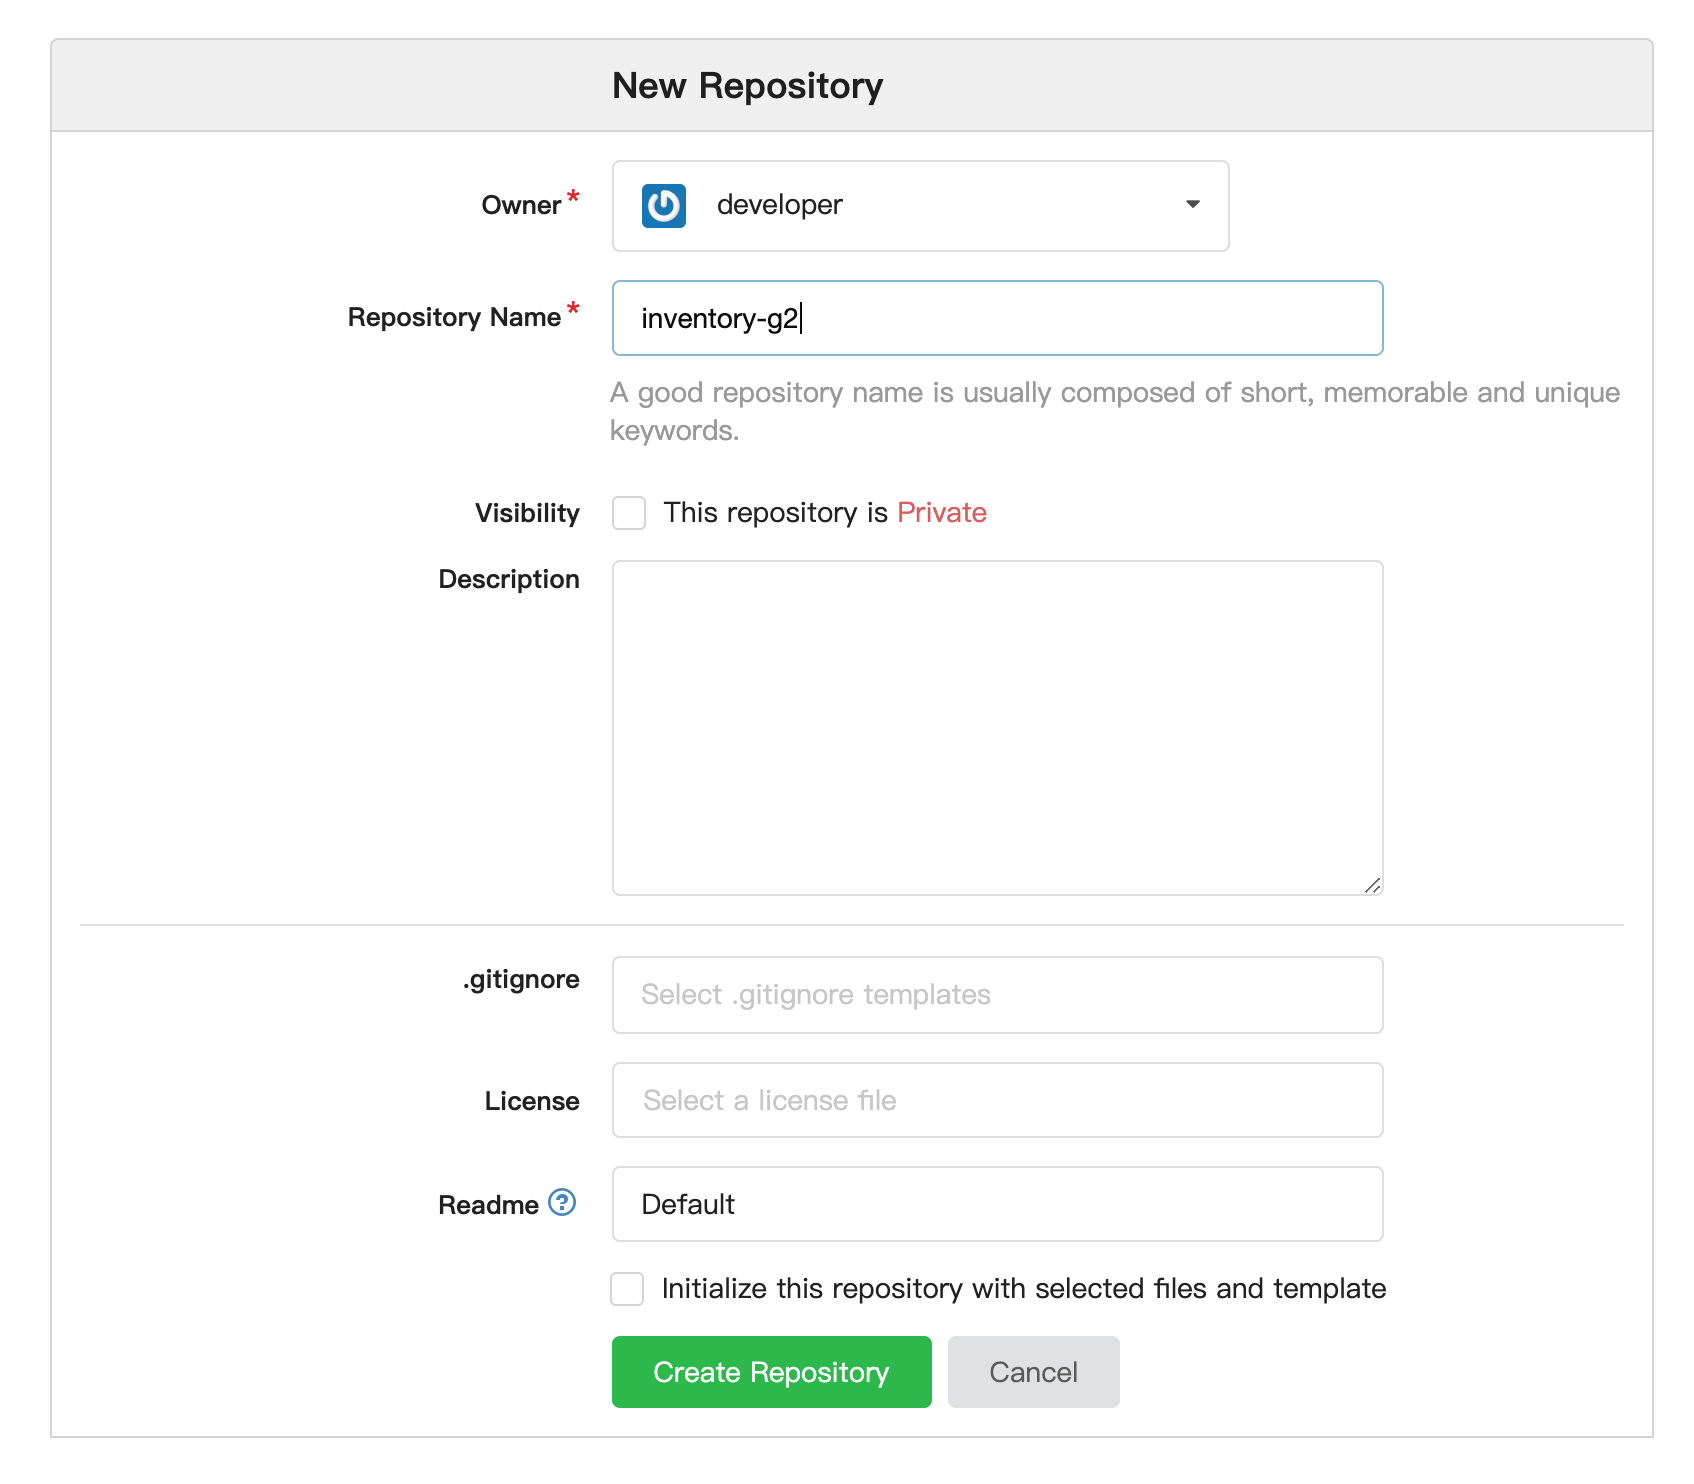
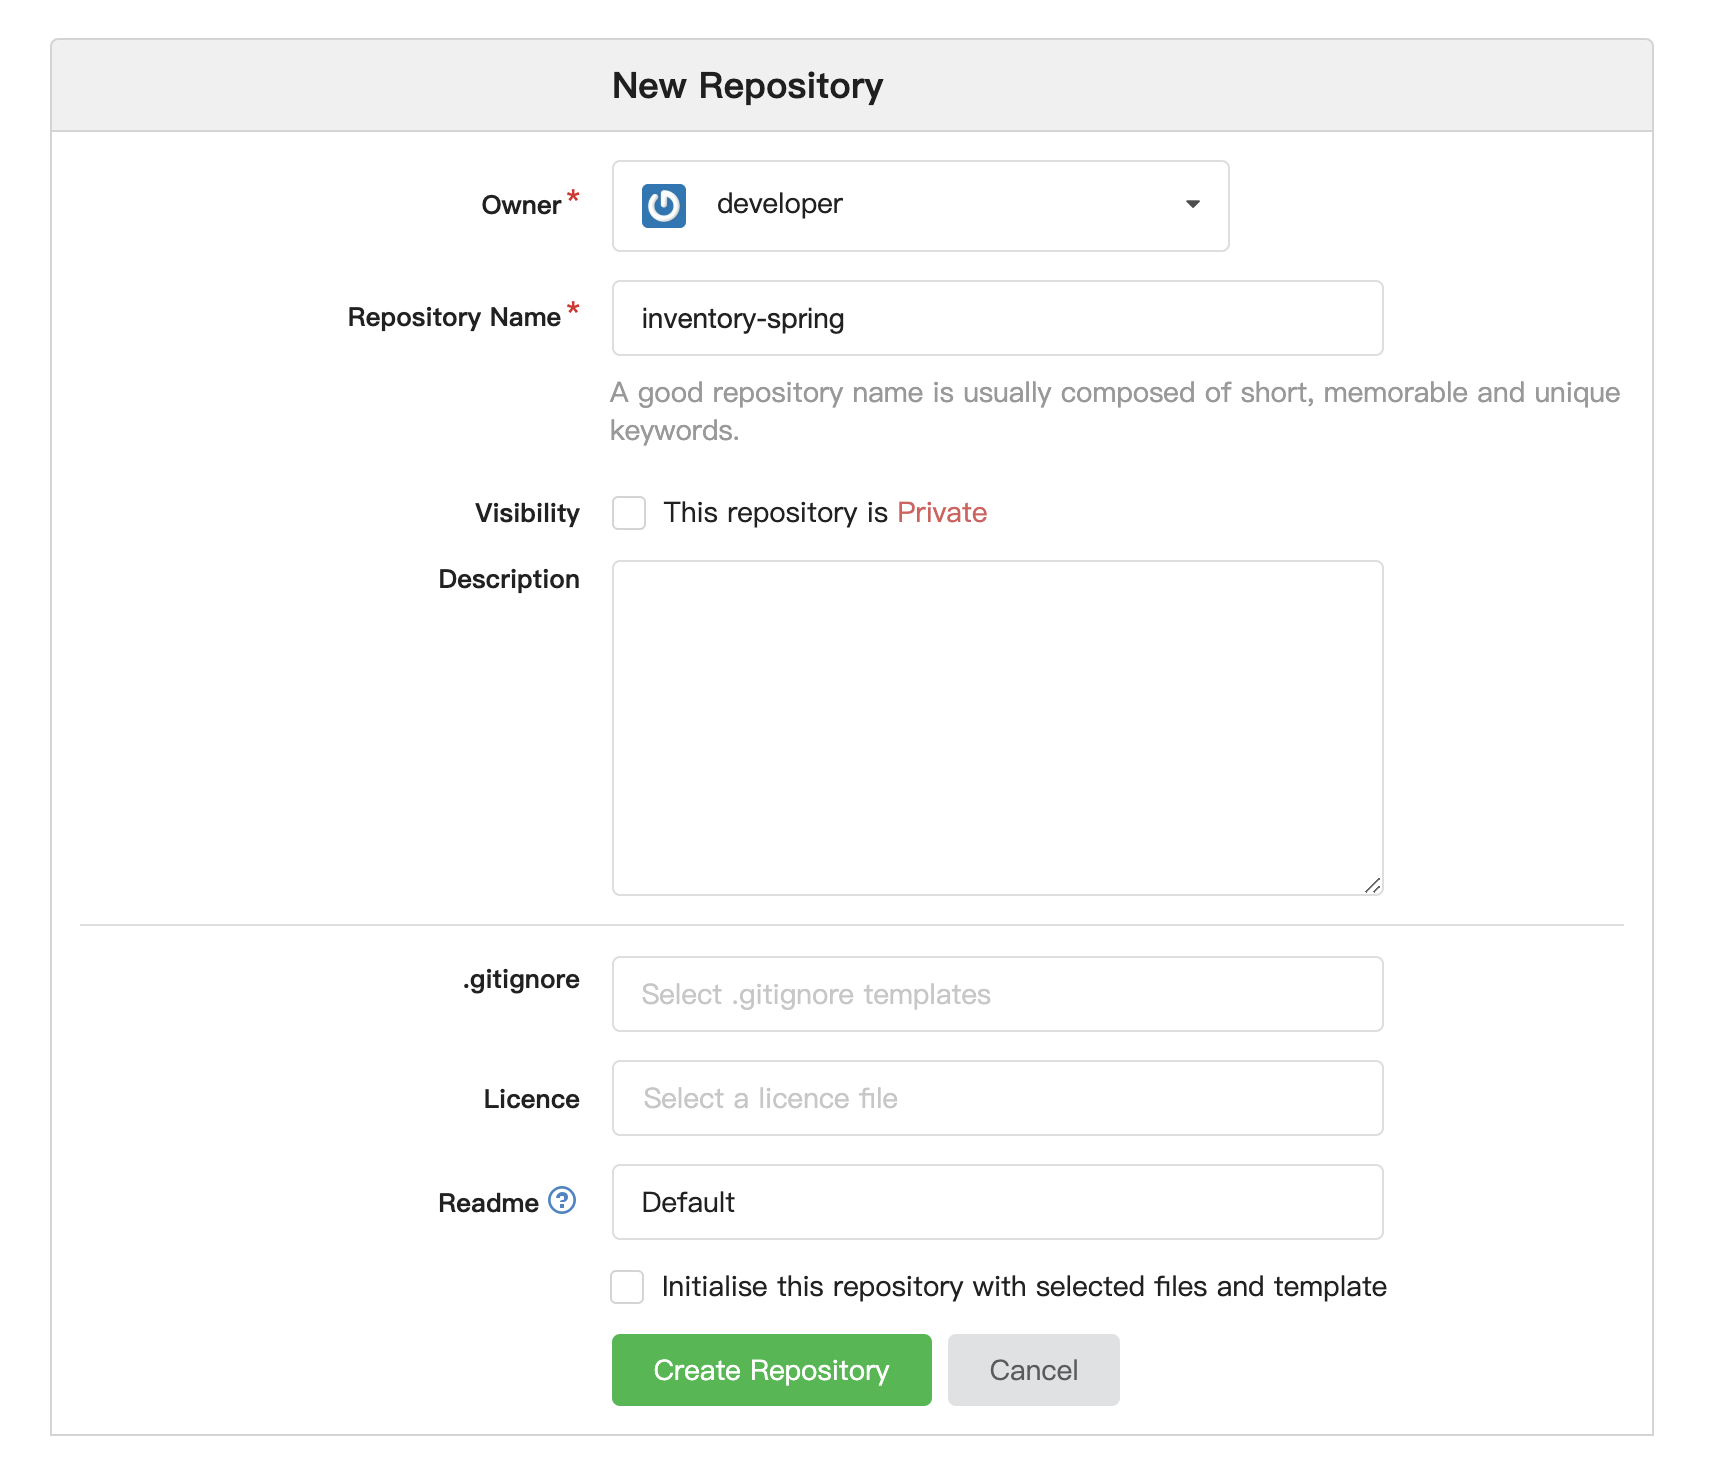
fixes for OCP 4, jdk 11 and 8

diff --git a/inventory-spring-boot-maven.md b/inventory-spring-boot-maven.md
@@ -49,6 +49,9 @@ $ cd inventory-spring-boot-maven
 $ cp ~/Downloads/Inventory\ API.yaml ./inventory.yaml
 ~~~
 
+
+> Upload the file to your workspace
+
 Next you'll create a `bin` folder, download the API Generator CLI...
 
 ~~~shell
@@ -65,7 +68,7 @@ $ cat << EOF > openapi-config.json
 }
 EOF
 $ mkdir ./bin
-$ curl -L -o ./bin/openapi-generator-cli.jar http://central.maven.org/maven2/org/openapitools/openapi-generator-cli/3.3.4/openapi-generator-cli-3.3.4.jar
+$ curl -L -o ./bin/openapi-generator-cli.jar https://repo1.maven.org/maven2/org/openapitools/openapi-generator-cli/4.2.3/openapi-generator-cli-4.2.3.jar
 $ export OUTPUT_DIR="inventory-gen"
 ~~~
 
@@ -142,7 +145,7 @@ Finally let's generate the code.
 ~~~shell
 $ java -jar ./bin/openapi-generator-cli.jar generate \
   -i inventory.yaml \
-  -l spring \
+  -g spring \
   -o $OUTPUT_DIR -c openapi-config.json
 ~~~
 
@@ -293,7 +296,7 @@ Click on the plus icon on the top navigation bar and then on **New Repository**.
 
 ![Create New Repository]({% image_path gogs-new-repo-01.png %}){:width="900px"}
 
-Give `inventory-spring-boot-gradle` as **Repository Name** and click on **Create Repository** 
+Give `inventory-spring` as **Repository Name** and click on **Create Repository** 
 button, leaving the rest with default values.
 
 ![Create New Repository]({% image_path gogs-new-repo-02.png %}){:width="700px"}
@@ -350,7 +353,7 @@ Go to the folder where we have generated the code (it should be `inventory-sprin
 >       - value: http://nexus.lab-infra:8081/repository/maven-all-public
 >         name: MAVEN_MIRROR_UR
 >       - value: >-
->           -XX:MaxRAMPercentage=50.0 -XX:+UseParallelGC -XX:MinHeapFreeRatio=10
+>           -XX:+UseParallelGC -XX:MinHeapFreeRatio=10
 >           -XX:MaxHeapFreeRatio=20 -XX:GCTimeRatio=4
 >           -XX:AdaptiveSizePolicyWeight=90 -Dsun.zip.disableMemoryMapping=true
 >           -Xms20m -Djava.security.egd=file:/dev/./urandom -Duser.home=/home/user
@@ -362,7 +365,7 @@ Go to the folder where we have generated the code (it should be `inventory-sprin
 
 ~~~shell
 $ git init
-$ git remote add origin GIT-REPO-URL
+$ git remote add origin ${GIT_REPO_URL}
 ~~~
 
 Before you commit the source code to the Git repository, configure your name and email so that the commit owner can be seen on the repository. If you want, you can replace the name and the email with your own in the following commands:
@@ -412,7 +415,7 @@ Ok, so we're sure we have a project to deploy our API, well, let's deploy our co
 > If Java 8
 
 ~~~shell
-$ oc new-app java:8~GIT-REPO-URL --context-dir=. --name inventory-jdk-8-s2i -l app.kubernetes.io/component=inventory-jdk-8-s2i -l app.kubernetes.io/instance=inventory-jdk-8-s2i -l app.kubernetes.io/name=java -l app.kubernetes.io/part-of=inventory-jdk-8-s2i -l app.openshift.io/runtime=java -l app.openshift.io/runtime-version='8' -n {{COOLSTORE_PROJECT}}{{PROJECT_SUFFIX}} 
+$ oc new-app java:8~${GIT_REPO_URL} --context-dir=. --name inventory-jdk-8-s2i -l app.kubernetes.io/component=inventory-jdk-8-s2i -l app.kubernetes.io/instance=inventory-jdk-8-s2i -l app.kubernetes.io/name=java -l app.kubernetes.io/part-of=inventory-jdk-8-s2i -l app.openshift.io/runtime=java -l app.openshift.io/runtime-version='8' -n {{COOLSTORE_PROJECT}}{{PROJECT_SUFFIX}} 
 --> Found image 8bea1b6 (2 weeks old) in image stream "openshift/java" under tag "8" for "java:8"
 
     Java Applications 
@@ -443,7 +446,7 @@ $ oc new-app java:8~GIT-REPO-URL --context-dir=. --name inventory-jdk-8-s2i -l a
 > If Java 11
 
 ~~~shell
-$ oc new-app java:11~GIT-REPO-URL --context-dir=. --name inventory-jdk-11-s2i -l app.kubernetes.io/component=inventory-jdk-11-s2i -l app.kubernetes.io/instance=inventory-jdk-11-s2i -l app.kubernetes.io/name=java -l app.kubernetes.io/part-of=inventory-jdk-11-s2i -l app.openshift.io/runtime=java -l app.openshift.io/runtime-version='11' -n {{COOLSTORE_PROJECT}}{{PROJECT_SUFFIX}} 
+$ oc new-app java:11~${GIT_REPO_URL} --context-dir=. --name inventory-jdk-11-s2i -l app.kubernetes.io/component=inventory-jdk-11-s2i -l app.kubernetes.io/instance=inventory-jdk-11-s2i -l app.kubernetes.io/name=java -l app.kubernetes.io/part-of=inventory-jdk-11-s2i -l app.openshift.io/runtime=java -l app.openshift.io/runtime-version='11' -n {{COOLSTORE_PROJECT}}{{PROJECT_SUFFIX}} 
 --> Found image adc2c89 (3 weeks old) in image stream "openshift/java" under tag "11" for "java:11"
 
     Java Applications 
@@ -489,9 +492,18 @@ After a successful built you should see a blue circle stating that 1 pod is up a
 
 In order to expose our service to the internet we need a route, next command will do the job.
 
+> If Java 8
+
 ~~~shell
-$ oc expose svc/inventory-s2i -n {{COOLSTORE_PROJECT}}{{PROJECT_SUFFIX}}
-route.route.openshift.io/inventory-s2i exposed
+$ oc expose svc/inventory-jdk-8-s2i -n {{COOLSTORE_PROJECT}}{{PROJECT_SUFFIX}}
+route.route.openshift.io/inventory-jdk-8-s2i exposed
+~~~
+
+> If Java 11
+
+~~~shell
+$ oc expose svc/inventory-jdk-11-s2i -n {{COOLSTORE_PROJECT}}{{PROJECT_SUFFIX}}
+route.route.openshift.io/inventory-jdk-11-s2i exposed
 ~~~
 
 Now if you go back to the Openshift web console you should see the route generated.

diff --git a/inventory-spring-boot-maven-metrics.md b/inventory-spring-boot-maven-metrics.md
@@ -72,19 +72,8 @@ $ mvn spring-boot:run
 
 Now open another terminal window and check if the default actuator endpoint is working properly.
 
-> **TIP:** Adding `| jq '.'` to make it easier to spot the 'prometheus' URL...
-> 
-> ~~~json
-...
-"prometheus": {
-      "href": "http://localhost:8080/actuator/prometheus",
-      "templated": false
-},
-...
-~~~
-
 ~~~shell
-$ curl http://localhost:8080/actuator | jq '.'
+$ curl http://localhost:8080/actuator
 {
   "_links": {
     ...
@@ -223,29 +212,37 @@ $ git push origin master
 >
 > **Please make sure project `{{COOLSTORE_PROJECT}}{{PROJECT_SUFFIX}}` is in use** by running: `oc project {{COOLSTORE_PROJECT}}{{PROJECT_SUFFIX}}`
 
+> If Java 8, else, change 8 by 11
+
 ~~~shell
-$  oc label svc inventory-s2i team=spring-boot-actuator -n {{COOLSTORE_PROJECT}}{{PROJECT_SUFFIX}}
+$  oc label svc inventory-jdk-8-s2i team=spring-boot-actuator -n {{COOLSTORE_PROJECT}}{{PROJECT_SUFFIX}}
 ~~~ 
 
 Finally let's rebuild the image (start a new build) which leads to the deployment of our new code.
 
 > **Please make sure project `{{COOLSTORE_PROJECT}}{{PROJECT_SUFFIX}}` is in use** by running: `oc project {{COOLSTORE_PROJECT}}{{PROJECT_SUFFIX}}`
 
+> If Java 8, else, change 8 by 11
+
 ~~~shell
-$ oc start-build bc/inventory-s2i -n {{COOLSTORE_PROJECT}}{{PROJECT_SUFFIX}}
+$ oc start-build bc/inventory-jdk-8-s2i -n {{COOLSTORE_PROJECT}}{{PROJECT_SUFFIX}}
 ~~~
 
 You can either progress of the build in the web console or running this command.
 
+> If Java 8, else, change 8 by 11
+
 ~~~shell
-$ oc logs -f bc/inventory-s2i -n {{COOLSTORE_PROJECT}}{{PROJECT_SUFFIX}}
+$ oc logs -f bc/inventory-jdk-8-s2i -n {{COOLSTORE_PROJECT}}{{PROJECT_SUFFIX}}
 ~~~
 
 Once it has finished, the new image should be rolled out and our Prometheus-ready code should be live.
 
+> If Java 8, else, 8 should change to 11
+
 ~~~shell
-$ oc get route -n {{COOLSTORE_PROJECT}}{{PROJECT_SUFFIX}} | grep inventory-s2i
-inventory-s2i   inventory-s2i-coolstore-XX.apps.serverless-d50b.openshiftworkshop.com             inventory-s2i   8080-tcp                 None
+$ oc get route -n {{COOLSTORE_PROJECT}}{{PROJECT_SUFFIX}} | grep inventory-jdk
+inventory-jdk-8-s2i   inventory-jdk-8-s2i-coolstore-XX.apps.serverless-d50b.openshiftworkshop.com             inventory-s2i-jdk-8   8080-tcp                 None
 ~~~
 
 You can make some requests to the inventory API and see how our Prometheus metrics look.

diff --git a/inventory-spring-boot-maven-cicd.md b/inventory-spring-boot-maven-cicd.md
@@ -24,6 +24,14 @@ The certified Jenkins image provided by OpenShift also provides auto-discovery a
 
 Note that this scanning is only performed once, when the Jenkins master is starting.
 
+#### Deploying Jenkins
+
+Before running Jenkins pipelines we need to deploy Jenkins in our project. This can be done from the web console or by running the next command.
+
+~~~shell
+oc new-app jenkins-ephemeral -p MEMORY_LIMIT=3Gi -p JENKINS_IMAGE_STREAM_TAG=jenkins:2 -n {{COOLSTORE_PROJECT}}{{PROJECT_SUFFIX}}
+~~~
+
 #### Building a simple pipeline to proof we can use the Maven Slave
 The following is a simple pipeline definition that clones our new Inventory service from the Git repository and then builds it using Gradle:
 
